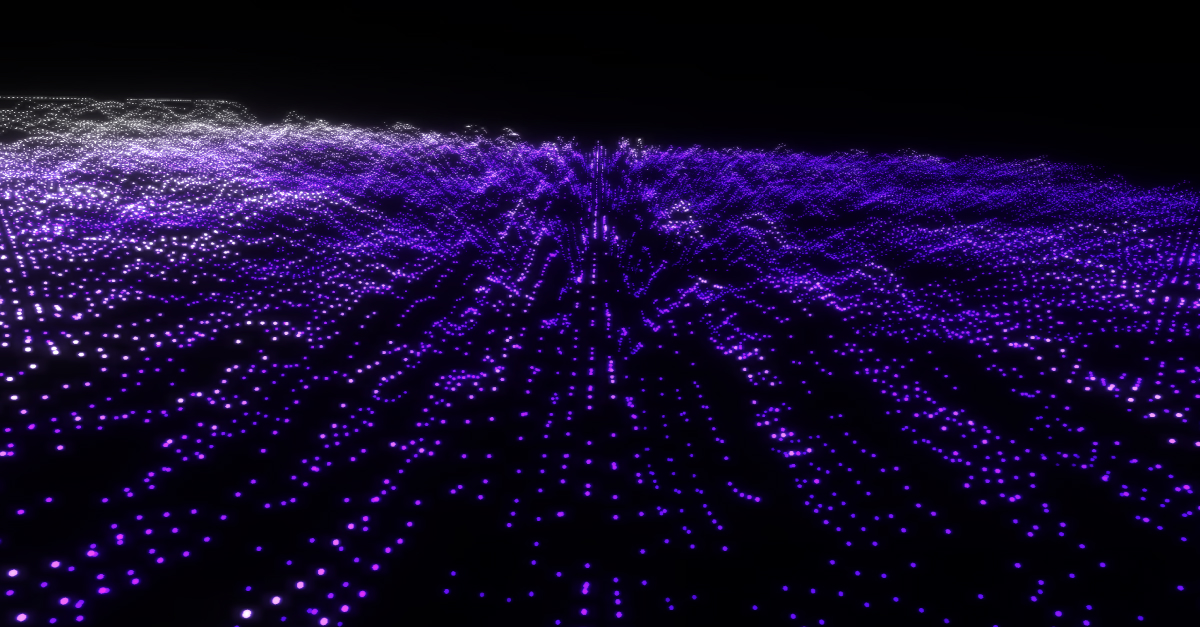
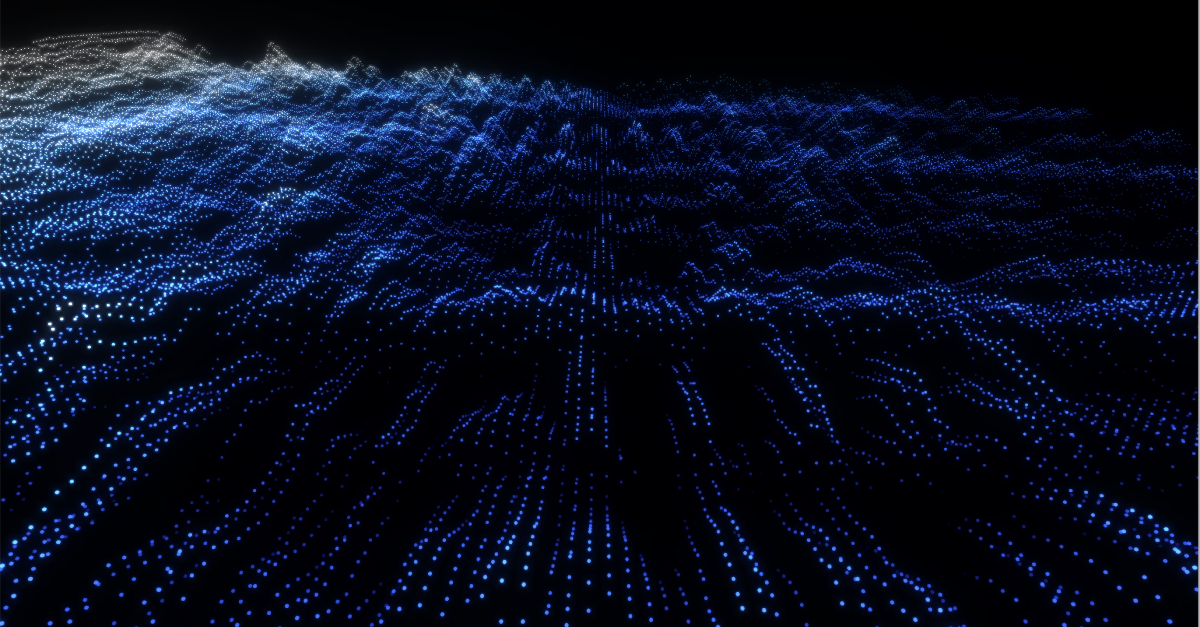
visual tweaks

diff --git a/js/3D.js b/js/3D.js
@@ -34,7 +34,7 @@ const scene = new THREE.Scene()
 
 // Camera
 const camera = new THREE.PerspectiveCamera(64, sizes.width / sizes.height, 1, 90);
-camera.position.set(20,10,0);
+camera.position.set(30,15,0);
 scene.add(camera);
 
 
@@ -64,7 +64,6 @@ const renderer = new THREE.WebGLRenderer({
 renderer.setSize(sizes.width, sizes.height);
 renderer.setPixelRatio(Math.min(window.devicePixelRatio, 2));
 renderer.setClearColor( 0xffffff, 0);
-scene.background = null;
 renderer.render(scene, camera);
 
 renderer.outputEncoding = THREE.sRGBEncoding;
@@ -110,7 +109,7 @@ var mesh = new THREE.InstancedMesh( sphereGeometry, basicMaterial, count );
 for ( let x = 0; x < amount; x ++ ) {
     for ( let y = 0; y < amount; y ++ ) {
         dummy.position.set( (offset - x) / 4, 0, (offset - y) / 4 );
-        dummy.scale.set(.02,.02,.02)
+        dummy.scale.set(.025,.025,.025)
         dummy.updateMatrix();
         mesh.setMatrixAt(i, dummy.matrix);
         mesh.setColorAt( i, color );
@@ -135,7 +134,7 @@ document.getElementById("play").onclick = function init(){
     source.connect(analyser);
     analyser.connect(audioContext.destination);
     analyser.fftSize = 1024;
-    analyser.smoothingTimeConstant = 0.8;
+    analyser.smoothingTimeConstant = 0.75;
     audioElement.play();
     
     document.getElementById("play").style.display = "none";
@@ -168,9 +167,9 @@ const animate = () =>
     let i = 0;
     for ( let x = 0; x < amount; x ++ ) {
         for ( let y = 0; y < amount; y ++ ) {
-            mesh.setColorAt( i, color.setHSL( 0.65 + queue[i]/2048, 1, queue[i]/128 - 0.6) );
+            mesh.setColorAt( i, color.setHSL( queue[i]/640 -.2, 0.8, queue[i]/128 - 0.7) );
             mesh.instanceColor.needsUpdate = true;
-            dummy.position.set( (offset - x) / 4, queue[i]/32, (offset - y) / 4 );
+            dummy.position.set( (offset - x) / 4, queue[i]/28, (offset - y) / 4 );
             dummy.updateMatrix();
             mesh.setMatrixAt( i, dummy.matrix );
             mesh.instanceMatrix.needsUpdate = true;
